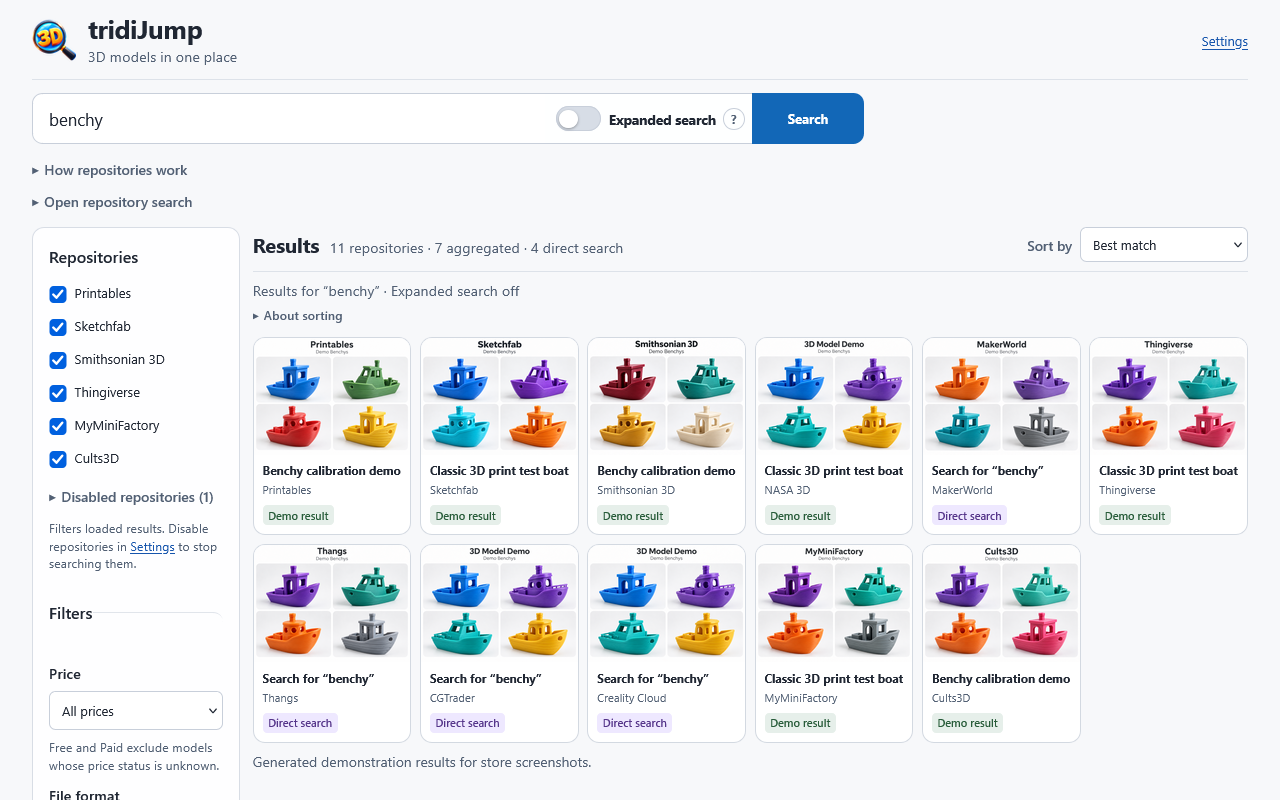
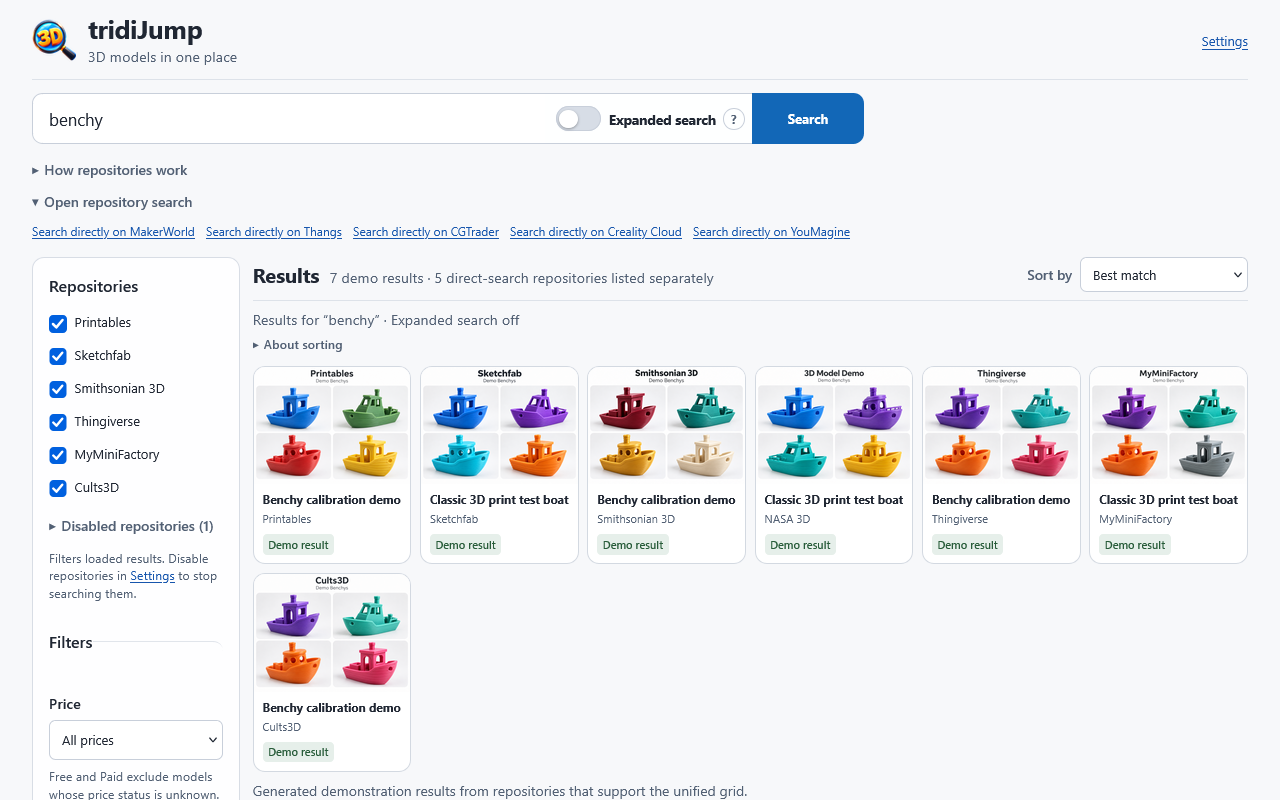
screenshots fix

Changed region(s): [[0.0312, 0.2812, 0.9688, 0.9062], [0.0312, 0.8438, 0.5938, 1.0], [0.8125, 0.2812, 0.9688, 0.375]]

diff --git a/tests/screenshot-fixture.test.ts b/tests/screenshot-fixture.test.ts
@@ -34,6 +34,11 @@ describe('production screenshot automation', () => {
     expect(bootstrap).toContain('new Map(capturedProviders.map');
     expect(bootstrap).toContain("querySelectorAll('#repository-options label, #disabled-repository-options label')");
     expect(bootstrap).toContain("querySelectorAll('#native-searches a[data-provider-id]')");
+    expect(bootstrap).toContain("providers.filter((provider) => provider.mode !== 'direct-search')");
+    expect(bootstrap).toContain("provider.mode === 'direct-search' && provider.url");
+    expect(bootstrap).toContain('direct-search repositories listed separately');
+    expect(bootstrap).toContain('directSection.open = directProviders.length > 0');
+    expect(bootstrap).not.toContain("badge.textContent = provider.mode === 'direct-search'");
     expect(bootstrap).toContain('artworkByKey[normalizedKey(provider.id)]');
     expect(demoArtworkFor({ id: 'printables', name: 'Printables' })).toBe('Demo-Printables.png');
     expect(demoArtworkFor({ id: 'sketchfab', name: 'Sketchfab' })).toBe('Demo-Sketchfab.png');

diff --git a/README.md b/README.md
@@ -55,7 +55,7 @@ exception. See the [release decision and historical audit](docs/release-audit.md
 
 ### Unified results
 
-![tridiJump Firefox results page showing six supported repositories](release/screenshots/firefox/01-supported-repositories-1280x800.png)
+![tridiJump Firefox results page showing unified-grid demo results and separate native-search repositories](release/screenshots/firefox/01-supported-repositories-1280x800.png)
 
 | Search popup | Settings |
 | --- | --- |
@@ -256,8 +256,10 @@ demonstration artwork, so screenshots neither search live providers nor read
 credentials.
 
 Provider names, enabled states, and retrieval modes are read from the rendered
-production pages. The results screenshot creates one fictional demo card for
-each discovered repository. It automatically uses matching
+production pages. The results screenshot creates fictional demo cards only for
+repositories that can feed the unified results grid. Direct-search-only
+repositories appear separately as native-search links and never receive result
+cards. Aggregated/local cards automatically use matching
 `assets/demo/screenshots/Demo-<repository>.png` artwork when available and the
 neutral Benchy artwork otherwise. Adding or removing a provider therefore does
 not require maintaining a second screenshot UI or a fixed provider fixture.

diff --git a/assets/demo/screenshots/README.md b/assets/demo/screenshots/README.md
@@ -5,7 +5,9 @@ artwork supplied for tridiJump store screenshots. They are not screenshots from
 provider websites and do not depict real listings.
 
 Capture mode discovers repositories from the rendered production page. For each
-repository it selects `Demo-<repository>.png` after punctuation-insensitive name
-matching; repositories without matching artwork use `Demo-Neutral-Benchys.png`.
+repository that supports unified-grid results, it selects `Demo-<repository>.png`
+after punctuation-insensitive name matching; repositories without matching
+artwork use `Demo-Neutral-Benchys.png`. Direct-search-only repositories never
+receive mock result cards and are shown only as native-search links.
 The screenshot server blocks remote traffic. These assets are capture inputs
 only: Vite does not copy them into the extension build or release package.
